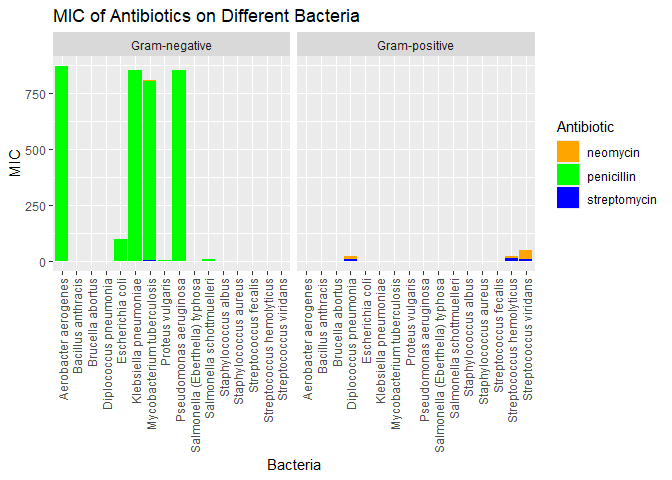
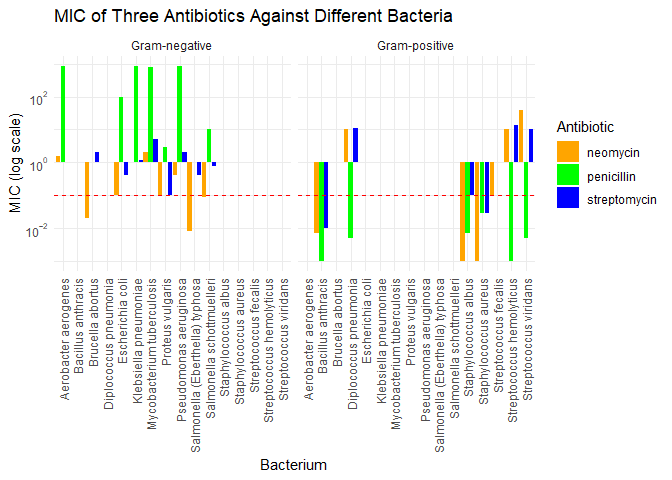
revision 1

diff --git a/challenges/c05-antibiotics-assignment.md b/challenges/c05-antibiotics-assignment.md
@@ -1,7 +1,7 @@
 Antibiotics
 ================
 Khor Zhi Hong
-2020-3-4
+2020-30-4
 
 *Purpose*: Creating effective data visualizations is an *iterative*
 process; very rarely will the first graph you make be the most
@@ -183,22 +183,47 @@ is Gram positive or negative.
 # WRITE YOUR CODE HERE
 
 
-df_antibiotics_1 <- df_antibiotics %>%
-  pivot_longer(cols = c(penicillin, streptomycin, neomycin), names_to = "antibiotic", values_to = "MIC") %>%
-    mutate(gram_status = ifelse(gram == "positive", "Gram-positive", "Gram-negative"))
-
-
-df_antibiotics_1 %>%
-  ggplot(aes(x = bacteria, y = MIC, fill = antibiotic)) +
-  geom_bar(stat = "identity") +
-  scale_fill_manual(values = c("penicillin" = "green", "streptomycin" = "blue", "neomycin" = "orange")) +
-  theme(axis.text.x = element_text(angle = 90, vjust = 0.5, hjust = 1)) +
+df_antibiotics %>% 
+  pivot_longer(
+    cols  = c(penicillin, streptomycin, neomycin),
+    names_to  = "antibiotic",
+    values_to = "MIC"
+  ) %>% 
+  mutate(
+    gram_status = if_else(gram == "positive", "Gram-positive", "Gram-negative")
+  ) %>% 
+  ggplot(aes(bacteria, MIC, fill = antibiotic)) +
+  geom_bar(
+    stat     = "identity",
+    position = position_dodge(width = 1)
+  ) +
+  scale_y_log10(
+    labels = scales::label_log(),
+    breaks = scales::log_breaks()
+  ) +
+  geom_hline(
+    yintercept = 0.1,
+    linetype   = "dashed",
+    colour     = "red",
+  ) +
+  scale_fill_manual(
+    values = c(
+      penicillin   = "green",
+      streptomycin = "blue",
+      neomycin     = "orange"
+    )
+  ) +
   facet_wrap(~ gram_status) +
   labs(
-    title = "MIC of Antibiotics on Different Bacteria",
-    x = "Bacteria",
-    y = "MIC",
-    fill = "Antibiotic")
+    title = "MIC of Three Antibiotics Against Different Bacteria",
+    x     = "Bacterium",
+    y     = "MIC (log scale)",
+    fill  = "Antibiotic"
+  ) +
+  theme_minimal() +
+  theme(
+    axis.text.x = element_text(angle = 90, vjust = 0.5, hjust = 1)
+  )
 ```
 
 ![](c05-antibiotics-assignment_files/figure-gfm/q1.1-1.png)<!-- -->
@@ -252,22 +277,35 @@ Note that your visual must be *qualitatively different* from *all* of
 your other visuals.
 
 ``` r
-df_antibiotics_3 <- df_antibiotics %>%
-  pivot_longer(cols = c(penicillin, streptomycin, neomycin), names_to = "antibiotic", values_to = "MIC") %>%
-  mutate(gram_status = ifelse(gram == "positive", "Gram-positive", "Gram-negative"))
+library(tidyverse)
 
+df_antibiotics %>% 
+  pivot_longer(
+    c(penicillin, streptomycin, neomycin),
+    names_to  = "antibiotic",
+    values_to = "MIC"
+  ) %>% 
+  mutate(gram_status = if_else(gram == "positive", "Gram-positive", "Gram-negative")) %>% 
+  ggplot(aes(MIC, fct_rev(bacteria), fill = antibiotic)) +
+  geom_col(position = position_dodge(width = 0.8)) +     
+  scale_x_log10(                                          
+    breaks = c(0.01, 0.1, 1, 10, 100),
+    labels = c("0.01", "0.1", "1", "10", "100")
+  ) +
 
-df_antibiotics_3 %>%
-  ggplot(aes(x = antibiotic, y = MIC, fill = antibiotic)) +
-  geom_bar(stat = "identity", position = "dodge", width = 1) +
-  scale_fill_manual(values = c("penicillin" = "darkorange", "streptomycin" = "forestgreen", "neomycin" = "dodgerblue")) +
-  facet_wrap(~ bacteria, scales = "free_y") +
-  labs(title = "MIC of Antibiotics on Different Bacteria",
-       x = "Antibiotic",
-       y = "MIC",
-       fill = "Antibiotic") +
-  theme_minimal() +
-  theme(axis.text.x = element_text(angle = 45, hjust = 1))
+  scale_fill_manual(values = c(
+    penicillin   = "orange",
+    streptomycin = "green",
+    neomycin     = "blue"
+  )) +
+  facet_wrap(~ gram_status, scales = "free_y") +            
+  labs(
+    title = "MIC of Three Antibiotics Across Bacteria (log scale)",
+    x     = "MIC (log scale)",
+    y     = "Bacterium",
+    fill  = "Antibiotic"
+  ) +
+  theme_minimal()
 ```
 
 ![](c05-antibiotics-assignment_files/figure-gfm/q1.3-1.png)<!-- -->
@@ -284,23 +322,22 @@ your other visuals.
 ``` r
 # WRITE YOUR CODE HERE
 
-df_antibiotics_4 <- df_antibiotics %>%
-  pivot_longer(cols = c(penicillin, streptomycin, neomycin), names_to = "antibiotic", values_to = "MIC") %>%
-  mutate(gram_status = ifelse(gram == "positive", "Gram-positive", "Gram-negative"))
 
-
-df_antibiotics_4 %>%
-  ggplot(aes(x = antibiotic, y = bacteria, size = MIC, color = gram_status)) +
-  geom_point(alpha = 0.7) +
-  scale_size_continuous(range = c(2, 11)) +
-  scale_color_manual(values = c("Gram-positive" = "red", "Gram-negative" = "blue")) +
+df_antibiotics %>% 
+  pivot_longer(
+    c(penicillin, streptomycin, neomycin),
+    names_to  = "antibiotic",
+    values_to = "MIC"
+  ) %>% 
+  mutate(log_MIC = log10(MIC)) %>% 
+  ggplot(aes(antibiotic, fct_rev(bacteria), fill = log_MIC)) +
+  geom_tile(colour = "white") +
   labs(
-  title = "MIC of Antibiotics on Different Bacteria",
-  x = "Antibiotic",
-  y = "Bacteria",
-  size = "MIC",
-  color = "Gram Status") +
-  theme(axis.text.x = element_text(angle = 90, vjust = 0.5, hjust = 1)) 
+    title = "MIC of Three Antibiotics Across Bacteria (log scale)",
+    x     = "Antibiotic",
+    y     = "Bacterium"
+  ) +
+  theme_minimal()
 ```
 
 ![](c05-antibiotics-assignment_files/figure-gfm/q1.4-1.png)<!-- -->
@@ -364,18 +401,18 @@ and especially ineffective against Aerobacter aerogenes, Klebsiella
 pneumoniae, Mycobacterium tuberculosis and Pseudomonas aeruginosa with
 MIC values ~800 and above.
 
-- streptomycin and neomycin have a broader range of effectiveness
-  against both Gram-positive and Gram-negative bacteria, but have both
-  have slight similar effect for most of the bacteria.
+-Penicillin is very effective against Gram-positive bacteria but doesn’t
+do much against Gram-negative ones. Streptomycin and neomycin, in
+contrast, work on both types: streptomycin’s strength is fairly even no
+matter the bug, while neomycin can hit some hard-to-treat Gram-negative
+bacteria especially well, though it may be slightly less potent than
+streptomycin on a few Gram-positive strains.
 
 - Which of your visuals above (1 through 5) is **most effective** at
   helping to answer this question?
-
   - Visual 2, df_antibiotics_2: Dot Plot with shapes showing the type
     antibodies
-
 - Why?
-
   - df_antibiotics_3 is most effective to show which of antibiotics MIC
     is below 0.1 but is lacking the Gram stain categorization thus not
     chosen. The Dot Plot with shapes showing antibodies,
@@ -405,13 +442,11 @@ distinguished from other species using rMLST.
 
 - Which of your visuals above (1 through 5) is **most effective** at
   helping to answer this question?
-  - None
-- Why?
-  - It is a historical and biological question rather than one that can
-    be answered directly through visual data analysis. The visuals are
-    more suited for analyzing the effectiveness of antibiotics against
-    bacteria and their Gram stain status, but not for reason why name
-    changes.
+  - 3
+- Why? from the visualisation S. pneumoniae responds to penicillin
+  similarly Streptococcus bacteria, with low MIC values showing it is
+  sensitive which maybe used to link it to be like Streptococcus than
+  other bacteria,and maybe the reason to move it into that group.
 
 # References
 
